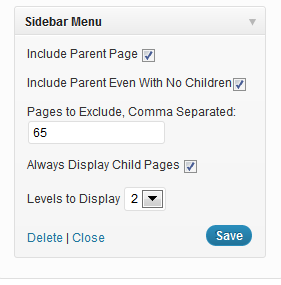
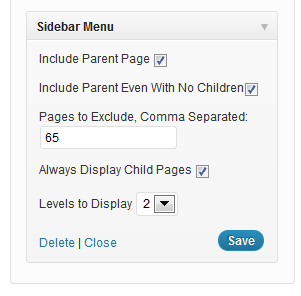
adding default styling option
git-svn-id: https://plugins.svn.wordpress.org/advanced-sidebar-menu/trunk@495932 b8457f37-d9ea-0310-8a92-e5e31aec5664

diff --git a/sidebar-menu.css b/sidebar-menu.css
@@ -1,0 +1,39 @@
+<style type="text/css" >
+
+.advanced-sidebar-menu ul li a{
+	font-weight: bold;
+	font-size: 130%;
+	text-decoration: none;
+}
+
+.advanced-sidebar-menu ul li a:hover{
+	text-decoration: underline;
+}
+
+.advanced-sidebar-menu ul ul li a{
+	font-weight: normal;
+	font-size: 100%;
+}
+
+.advanced-sidebar-menu ul{
+	margin: 0 0 0 18px;
+	list-style: none;
+	list-style-type: none;
+}
+
+.advanced-sidebar-menu ul li{
+	list-style:none;
+	list-style-type: none;
+	
+}
+
+.advanced-sidebar-menu li.current_page_item{
+	list-style-type: disc;
+}
+
+.advanced-sidebar-menu li.current_page_item a{
+	font-weight: bold;
+}
+
+
+</style>

diff --git a/advanced-sidebar-menu.php b/advanced-sidebar-menu.php
@@ -4,9 +4,9 @@ Plugin Name: Advanced Sidebar Menu
 Plugin URI: http://lipeimagination.info
 Description: Creates dynamic menu based on child/parent relationship.
 Author: Mat Lipe
-Version: 2.0.1
+Version: 2.1
 Author URI: http://lipeimagination.info
-Since: 1/24/12
+Since: 1/26/12
 Email: mat@lipeimagination.info
 
 */
@@ -21,42 +21,46 @@ class advanced_sidebar_menu extends WP_Widget {
 	function form( $instance ) {
 				  		 require( 'advanced-sidebar-menu.js' );
 			?>
-
-
-
-            <p> Include Parent Page <input id="<?php echo $this->get_field_name('include_parent'); ?>"
-            	name="<?php echo $this->get_field_name('include_parent'); ?>" type="checkbox" value="checked"
+			
+			
+			
+            <p> Include Parent Page <input id="<?php echo $this->get_field_name('include_parent'); ?>" 
+            	name="<?php echo $this->get_field_name('include_parent'); ?>" type="checkbox" value="checked" 
             	<?php echo $instance['include_parent']; ?>/></p>
-
-
+			
+            			
 			<p> Include Parent Even With No Children<input id="<?php echo $this->get_field_name('include_childless_parent'); ?>"
-			name="<?php echo $this->get_field_name('include_childless_parent'); ?>" type="checkbox" value="checked"
+			name="<?php echo $this->get_field_name('include_childless_parent'); ?>" type="checkbox" value="checked" 
 					<?php echo $instance['include_childless_parent']; ?>/></p>
-
-			<p> Pages to Exclude, Comma Separated:<input id="<?php echo $this->get_field_name('exclude'); ?>"
+					
+			<p> Use Built in Styling <input id="<?php echo $this->get_field_name('css'); ?>"
+			name="<?php echo $this->get_field_name('css'); ?>" type="checkbox" value="checked" 
+					<?php echo $instance['css']; ?>/></p>
+					
+			<p> Pages to Exclude, Comma Separated:<input id="<?php echo $this->get_field_name('exclude'); ?>" 
             	name="<?php echo $this->get_field_name('exclude'); ?>" type="text" value="<?php echo $instance['exclude']; ?>"/></p>
-
-            <p> Always Display Child Pages <input id="<?php echo $this->get_field_name('display_all'); ?>"
-            	name="<?php echo $this->get_field_name('display_all'); ?>" type="checkbox" value="checked"
+            	
+            <p> Always Display Child Pages <input id="<?php echo $this->get_field_name('display_all'); ?>" 
+            	name="<?php echo $this->get_field_name('display_all'); ?>" type="checkbox" value="checked" 
             	onclick="javascript:reveal_element( 'levels-<?php echo $this->get_field_name('levels'); ?>' )"
             	<?php echo $instance['display_all']; ?>/></p>
-
-            <span id="levels-<?php echo $this->get_field_name('levels'); ?>" style="<?php
+            
+            <span id="levels-<?php echo $this->get_field_name('levels'); ?>" style="<?php 
                   if( $instance['display_all'] == checked ){
                   	echo 'display:block';
                   } else {
                   	echo 'display:none';
-                  } ?>">
-            <p> Levels to Display <select id="<?php echo $this->get_field_name('levels'); ?>"
+                  } ?>"> 
+            <p> Levels to Display <select id="<?php echo $this->get_field_name('levels'); ?>" 
             name="<?php echo $this->get_field_name('levels'); ?>">
-            <?php
+            <?php 
             	for( $i= 1; $i<6; $i++ ){
             		if( $i == $instance['levels'] ){
             			echo '<option value="'.$i.'" selected>'.$i.'</option>';
             		} else {
             			echo '<option value="'.$i.'">'.$i.'</option>';
             		}
-            	}
+            	} 
             	echo '</select></p></span>';
 		}
 
@@ -70,6 +74,7 @@ class advanced_sidebar_menu extends WP_Widget {
 			$instance['exclude'] = strip_tags($new_instance['exclude']);
 			$instance['display_all'] = strip_tags($new_instance['display_all']);
 			$instance['levels'] = strip_tags($new_instance['levels']);
+			$instance['css'] = strip_tags($new_instance['css']);
 			return $instance;
 		}
 
@@ -93,101 +98,110 @@ class advanced_sidebar_menu extends WP_Widget {
 	 		 global $wpdb;
 	 		 global $p;
 	  		 global $post;
-
+	  		 
 	  		 #-- Create a usable array of the excluded pages
 	  		 $exclude = explode(',', $instance['exclude']);
-
-
+		   
+           
 	    	 #-- if the post has parrents
 			if($post->ancestors){
-
+			
 				$parent = $wpdb->get_var( "SELECT post_parent from wp_posts WHERE ID=".$post->ID );
-
+			 
 				//--- If there is a parent of the post set $p to it and check if there is a parent as well
 				while($parent != FALSE){
 						$p = $parent;
 				    	$parent = $wpdb->get_var( "SELECT post_parent from wp_posts WHERE ID=".$parent);
 				}
-
+		
 			} else {
 				#--------- If this is the parent ------------------------------------------------
 				$p = $post->ID;
 			}
-
+		
 			#-- Makes this work with all table prefixes
 			#-- Added 1/22/12
 			global $table_prefix;
-
+			
 
 			$result = $wpdb->get_results( "SELECT ID FROM ".$table_prefix."posts WHERE post_parent = $p AND post_type='page' Order by menu_order" );
-
+	
     		#---- if there are no children do not display the parent unless it is check to do so
     		if($result != false || $instance['include_childless_parent'] == 'checked' ){
-
-				  //Start the menu
+    			
+    		   if( $instance['css'] == 'checked' ){
+    		   	  include( plugin_dir_path(__FILE__).'sidebar-menu.css' );
+    		   }
+				
+				  //Start the menu 
 				echo '<div id="'.$args['widget_id'].'" class="advanced-sidebar-menu widget">';
-
-		    	echo   '<ul class="parent-sidebar-menu" >';
+				
+		    	
 				#-- if the checkbox to include parent is checked
     			if( $instance['include_parent'] == 'checked' ){
+    				echo   '<ul class="parent-sidebar-menu" >'; 
+    				
 		     		 $parent_toggle = TRUE;
-
-		        #-- If the page is not excluded from the menu
-		     		if( !in_array($p, $exclude) ){
+		     		 
+		        #-- If the page is not excluded from the menu		 
+		     		if( !in_array($p, $exclude) ){	 
 						#-- list the parent page
        	 				wp_list_pages("sort_column=menu_order&title_li=&echo=1&depth=1&include=".$p);
 		     		}
-
+       	 			
 				}
 			}
 
               //=----------------------------------- makes the Child Pages list -----------------------------------------
-
+              
 		//If there are children start the Child Sidebar Menu
        if( $result != FALSE ){
 		  echo '<ul class="child-sidebar-menu">';
-
+		  
 		  #-- If they want all the pages displayed always
 		  if( $instance['display_all'] == 'checked' ){
 		  	   wp_list_pages("sort_column=menu_order&title_li=&echo=1&child_of=".$p."&depth=".$instance['levels']."&exclude=".$instance['exclude']);
 		  } else {
-
+       	 				
 		  	#-- Display children of current page's parent only
 		    foreach($result as $pID){
-
+			
 				#-- If the page is not in the excluded ones
 				if( !in_array($pID->ID, $exclude) ){
          	 		#--echo the current page from the $result
 					wp_list_pages("sort_column=menu_order&title_li=&echo=1&depth=1&include=".$pID->ID);
 				}
-
+          
 	      			#-- if the link that was just listed is the current page we are on
 				if($pID->ID == $post->ID or $pID->ID == $post->post_parent or @in_array($pID->ID, $post->ancestors) ){
-
+		
 					$kids = $wpdb->get_results( "SELECT ID FROM ".$table_prefix."posts WHERE post_parent = ".$pID->ID." AND post_type='page' " );
 					if( $kids != FALSE ){
-
+				
 			 			#-- Create a new menu with all the children under it
 						echo '<ul class="grandchild-sidebar-menu">';
 
 							wp_list_pages("sort_column=menu_order&title_li=&echo=1&exclude=".$instance['exclude']."&depth=3&child_of=".$pID->ID);
-
+	
 						echo '</ul>';
 					}
 				}
 		 	 }
 		  }
-
+		 
 		 #-- Close the First Level menu
 		 echo '</ul><!-- End child-sidebar-menu -->';
-
+		
        }
 		  #-- If there was a menu close it off
 		if($result != false || $instance['include_childless_parent'] == 'checked' ){
-
-			 echo '</ul></div><!-- end of very-custom-menu -->';
+		     
+			if( $instance['include_parent'] == 'checked' ) {
+				echo '<ul>';
+			}
+			 echo '</div><!-- end of very-custom-menu -->';
 		}
-
+     	     
 	} #== /widget()
-
+	
 } #== /Class
